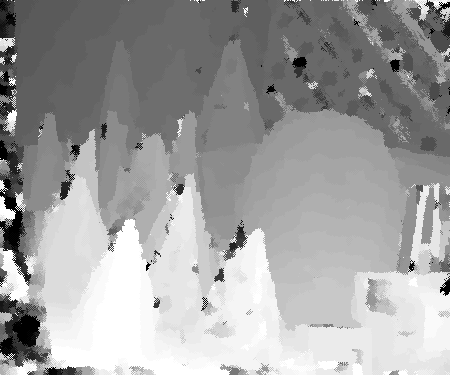
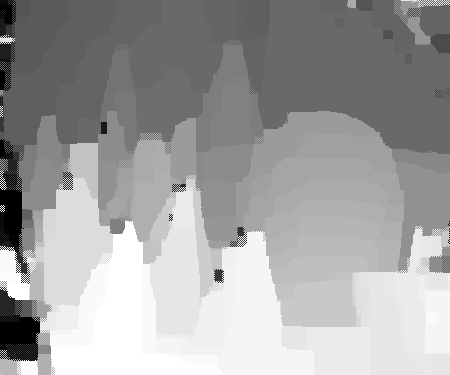
Fist set of tuning, error=3.18

diff --git a/stereo-matching/templates/stereo_disparity_best.py b/stereo-matching/templates/stereo_disparity_best.py
@@ -54,11 +54,12 @@ def stereo_disparity_best(Il, Ir, bbox, maxd):
     maxiter = 100 # max number of belief propagation iterations
     tau = 15. # for the data cost
     lamb = maxd # the impact of smoothness in the cost function
+    model = "Potts"# "Linear" # model for the smoothness cost # Potts turned out to be better at higher iteration (i.e. iter=100/tau=15)
     K = 2. # only when using the truncated linear model fpr smoothness
     sigma = 0.1 # gaussian pamareter for the input images before stereo matching
 
     # Preprocessing
-    print("Processing LBP with {} iterations, lamb={}, and tau={}:".format(maxiter, lamb, tau))
+    print("Processing LBP with {} iterations, tau={} \nand lamb={} with the {} model for smoothness:".format(maxiter, tau, lamb, model))
     m, n = Il.shape # m=height(#rows) and n=width(#columns)
     Il, Ir = gaussian_filter(Il, sigma), gaussian_filter(Ir, sigma) # smoothen the img
 
@@ -265,7 +266,7 @@ def stereo_disparity_best(Il, Ir, bbox, maxd):
     # Perform the LBP to minimize the energy
     for i in range(maxiter):
         print('Iteration {}'.format(i))
-        messages = propagate(messages, D_costs, model="Linear")
+        messages = propagate(messages, D_costs, model=model)
         # energy.append(total_energy(Id, D_costs)) # used to debug and observe, commented out for saving time
 
     # Once the max number of iteration is reached, we get the belief from the updated messages
